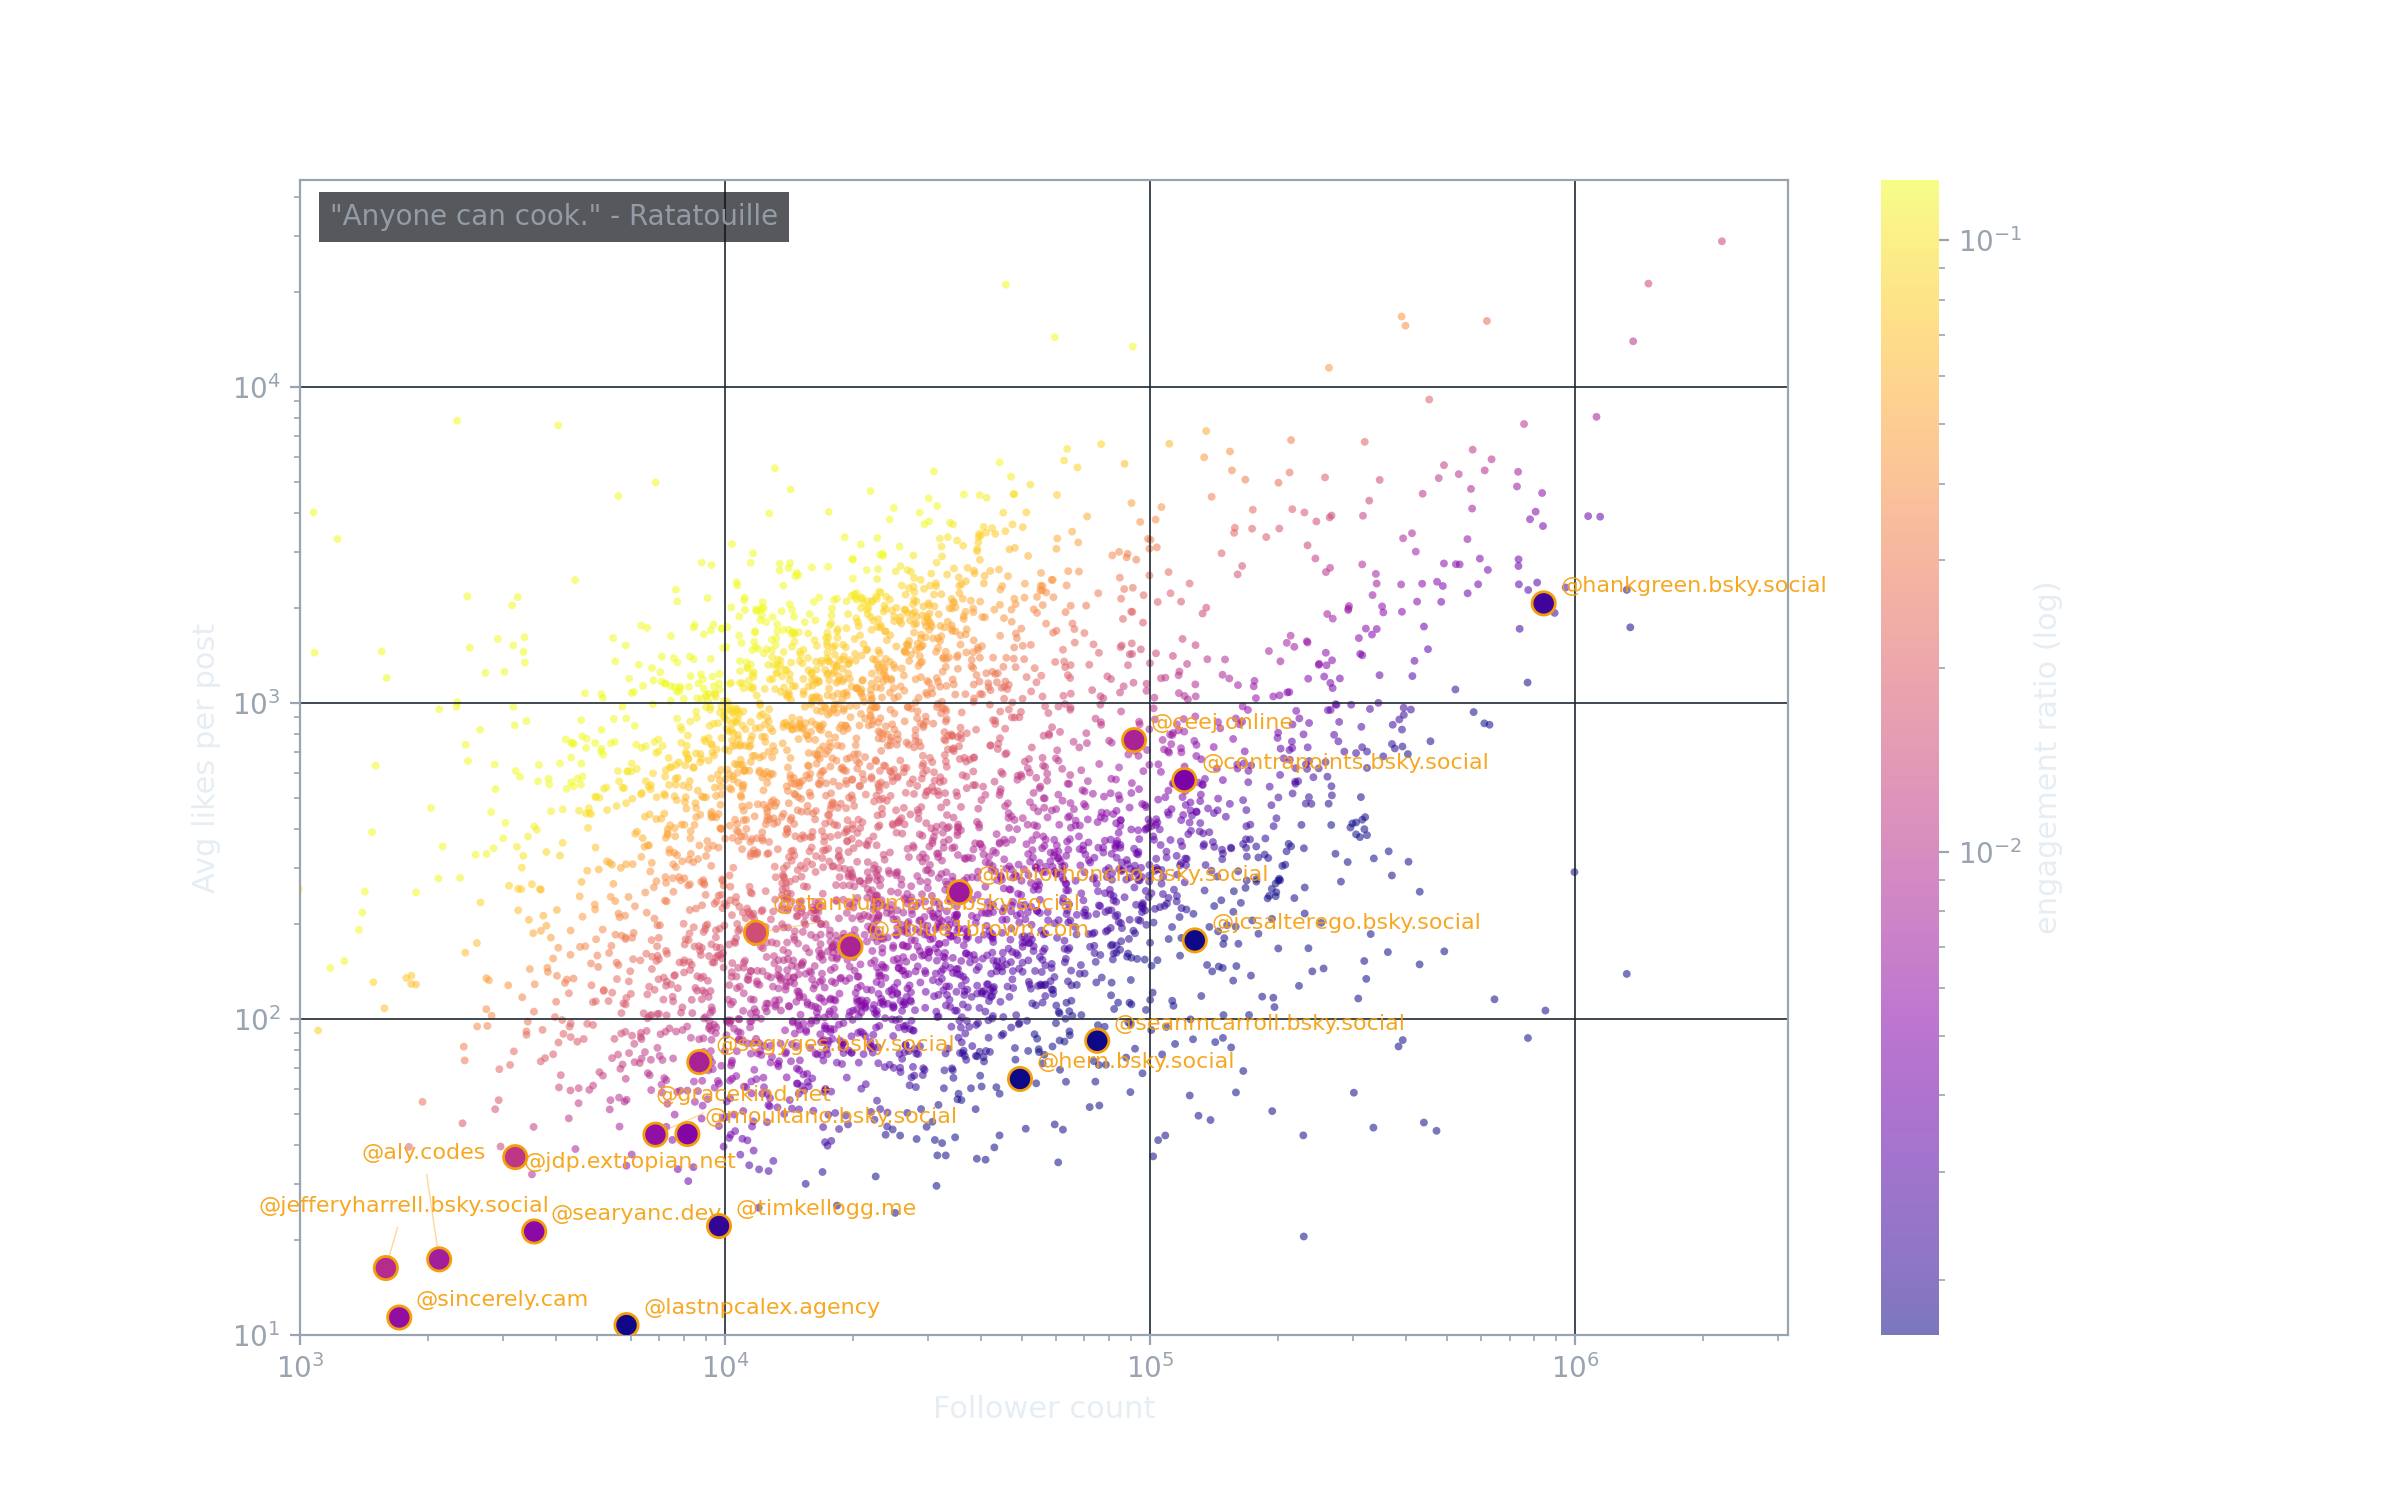
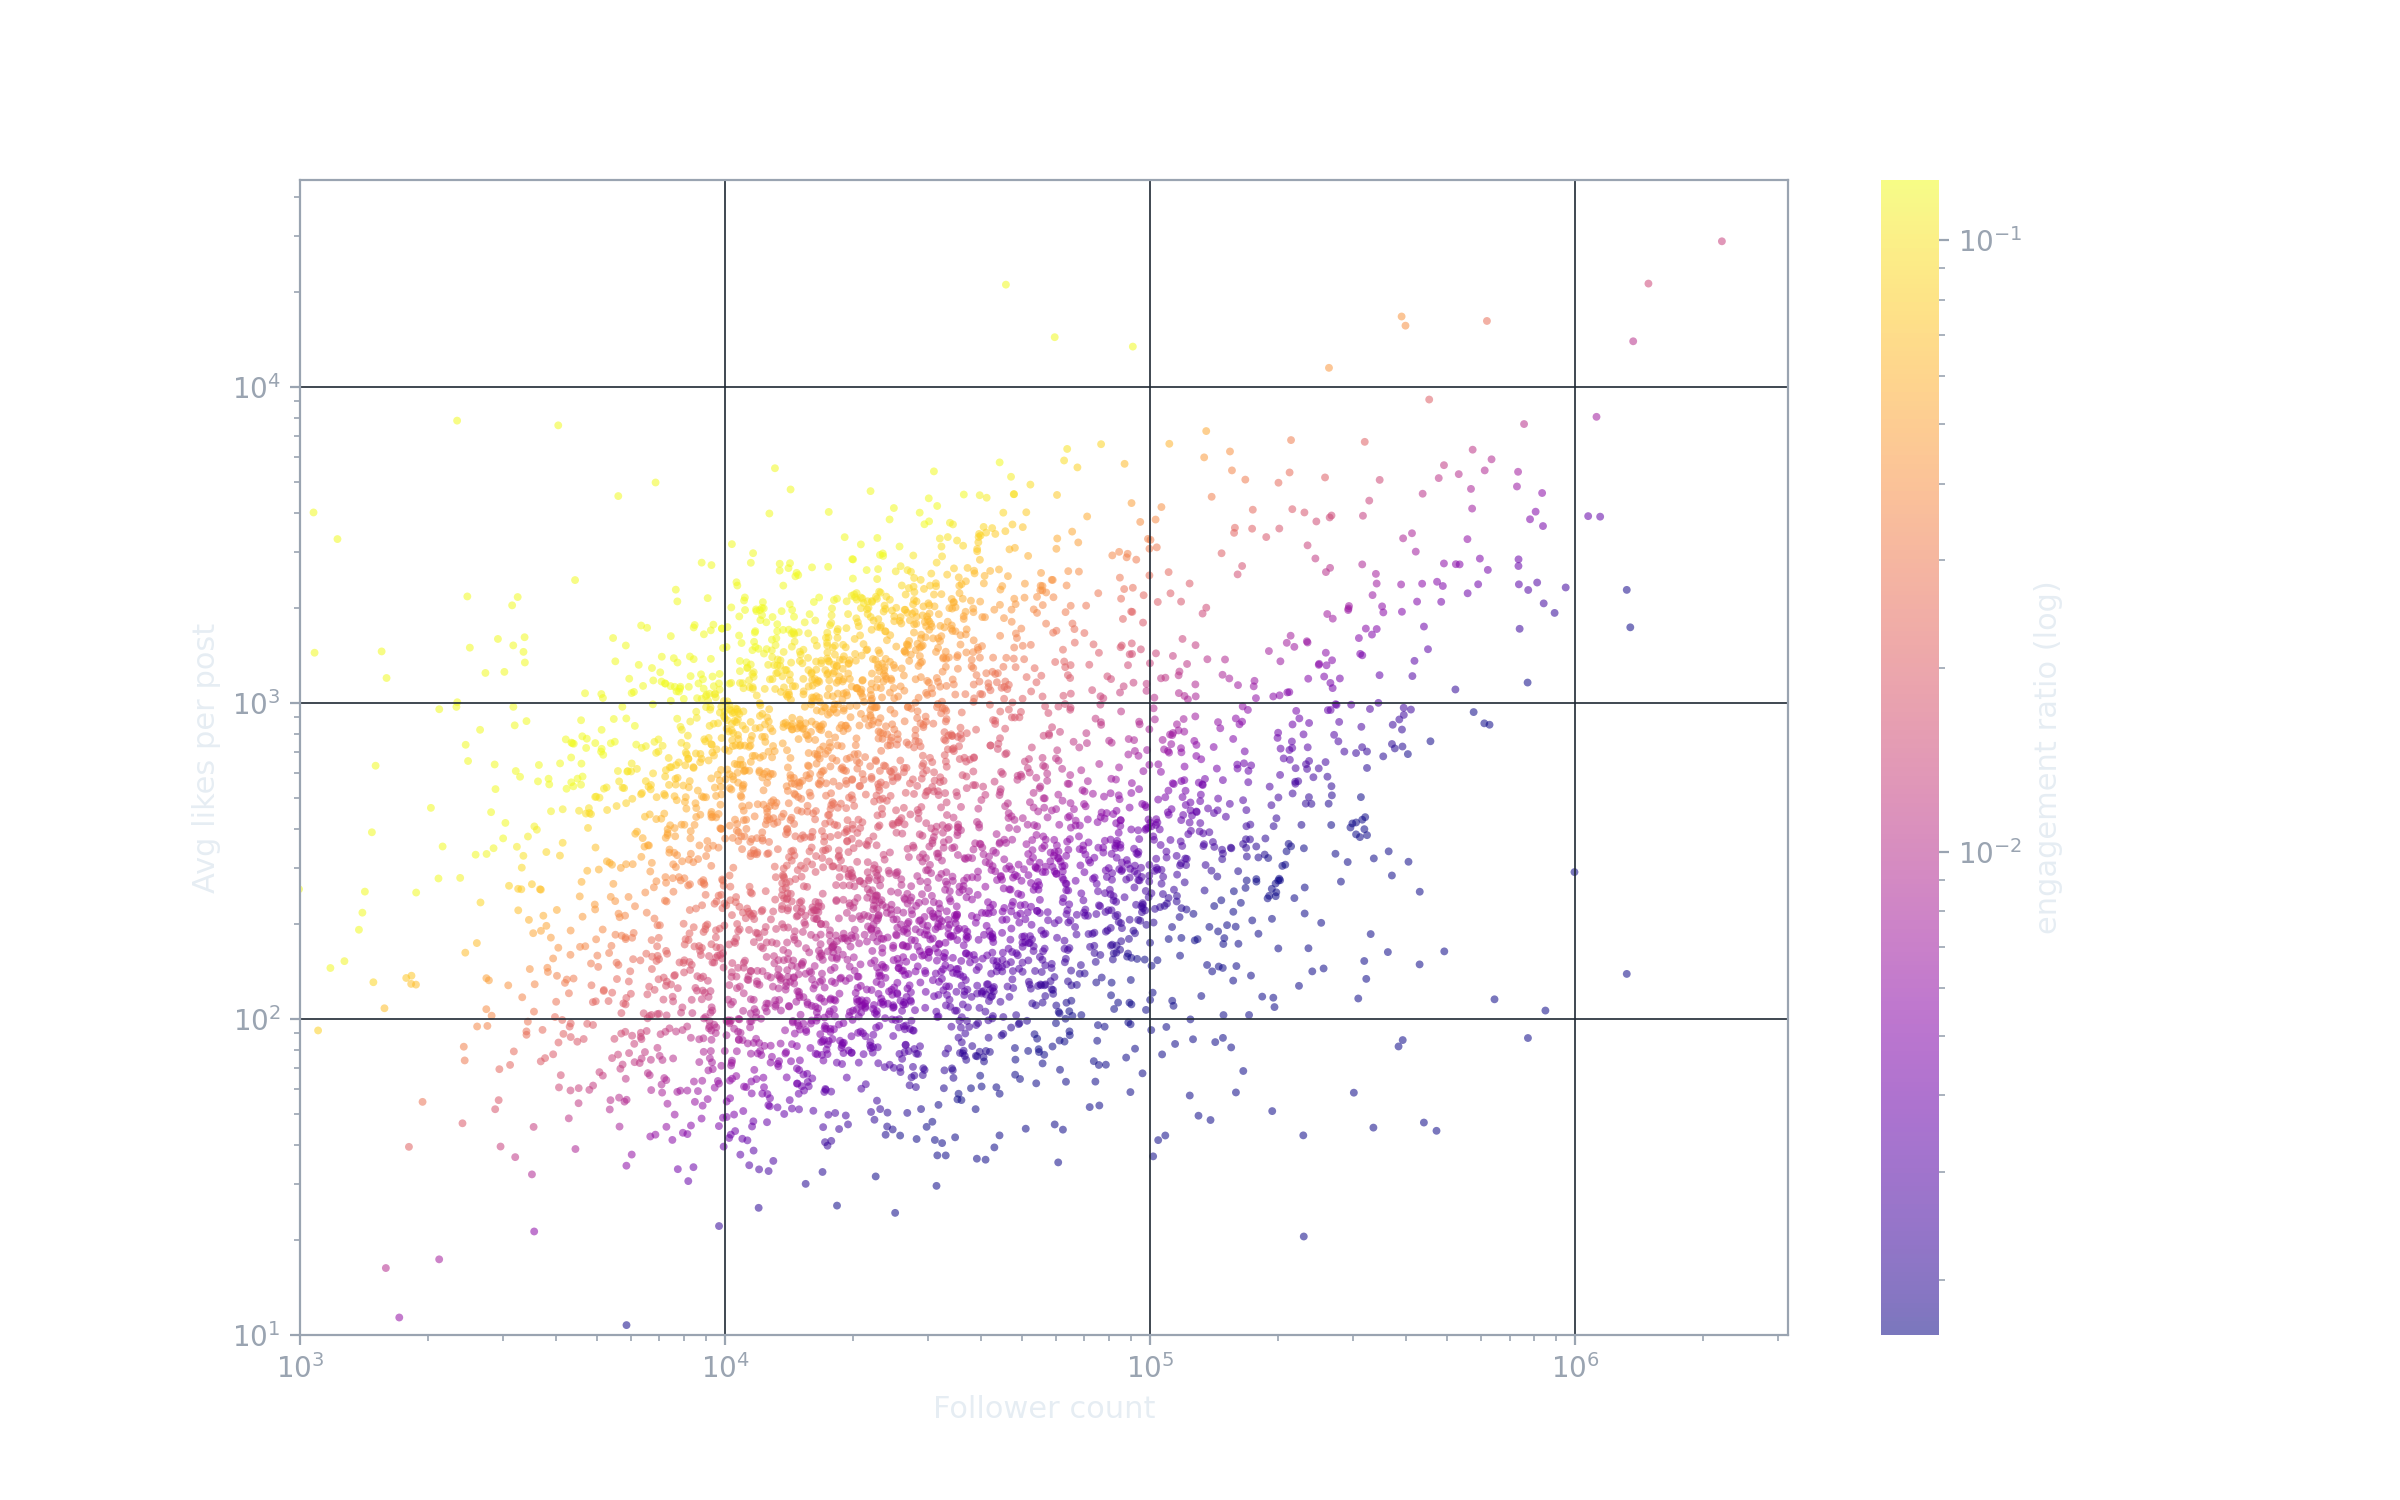
Polish: clean punching plot, follows button, map autocomplete, rename, wording
- punching.png regenerated CLEAN (no baked gold highlights/labels/quote) from the
  existing positions.bin -- recompute engagement_ratio = (y-1)/x and re-render;
  bounds.json re-derived identical (300/180/1788/1335) so the follows overlay
  stays pixel-aligned. New regen_punching_web.py (no parquet pipeline needed).
- FollowsHighlight: one button '🎲 Highlight 15 Followed' that re-rolls on repeat
  press (same handle); removed the separate shuffle button; kept the count note.
- Map search autocomplete: raise .exploremap__search above the color-mode buttons
  (z-index) -- the dropdown was painted behind them.
- Rename 'Wallenstein Posters' -> 'Erudite History Posters' (regions + reference
  + rationale).
- Most & Least note: '1 = likes the most viral'.

diff --git a/site/src/components/FollowsHighlight.tsx b/site/src/components/FollowsHighlight.tsx
@@ -43,6 +43,7 @@ export function FollowsHighlight({ points, onPicks }: Props) {
   const boxRef = useRef<HTMLDivElement>(null);
   const debounceRef = useRef<number | undefined>(undefined);
   const seqRef = useRef(0); // drop out-of-order responses
+  const fetchedRef = useRef<string | null>(null); // handle the current pool is for
 
   useEffect(() => {
     const onDoc = (e: MouseEvent) => {
@@ -86,6 +87,7 @@ export function FollowsHighlight({ points, onPicks }: Props) {
       const present = [...new Set(follows.filter((h) => points.index.has(h)))];
       const me = handle.trim().replace(/^@+/, "").toLowerCase();
       const onPlot = points.index.has(me) ? me : null;
+      fetchedRef.current = me; // subsequent clicks for the same handle re-roll
       setPool(present);
       setUser(onPlot);
       if (!present.length) {
@@ -107,6 +109,15 @@ export function FollowsHighlight({ points, onPicks }: Props) {
     }
   };
 
+  // One button: first press (or a new handle) fetches; pressing again for the
+  // same handle just re-rolls a fresh 15.
+  const onButton = () => {
+    if (busy) return;
+    const cur = handle.trim().replace(/^@+/, "").toLowerCase();
+    if (pool.length > 0 && cur === fetchedRef.current) reshuffle();
+    else run();
+  };
+
   return (
     <div className="followshl" ref={boxRef}>
       <div className="followshl__row">
@@ -123,7 +134,7 @@ export function FollowsHighlight({ points, onPicks }: Props) {
             onKeyDown={(e) => {
               if (e.key === "Enter") {
                 setOpen(false);
-                run();
+                onButton();
               } else if (e.key === "Escape") {
                 setOpen(false);
               }
@@ -156,15 +167,14 @@ export function FollowsHighlight({ points, onPicks }: Props) {
             </ul>
           )}
         </div>
-        <button className="followshl__btn" onClick={run} disabled={busy || !handle.trim()}>
-          Highlight 15
+        <button
+          className="followshl__btn"
+          onClick={onButton}
+          disabled={busy || !handle.trim()}
+        >
+          🎲 Highlight 15 Followed
         </button>
       </div>
-      {pool.length > 0 && (
-        <button className="followshl__shuffle" onClick={() => reshuffle()} disabled={busy}>
-          🎲 shuffle 15 more
-        </button>
-      )}
       {status && <div className="followshl__status">{status}</div>}
     </div>
   );

diff --git a/site/src/components/PlotPage.tsx b/site/src/components/PlotPage.tsx
@@ -131,7 +131,7 @@ export function PlotPage({ plot, selectedHandle, onSelectHandle }: Props) {
         : (() => {
             const ranked = leaderboard.rankOf(sel);
             return ranked
-              ? `@${sel} ranks #${ranked.rank.toLocaleString()} of ${leaderboard.total.toLocaleString()} by mainstreaminess (1 = most viral)`
+              ? `@${sel} ranks #${ranked.rank.toLocaleString()} of ${leaderboard.total.toLocaleString()} by mainstreaminess (1 = likes the most viral)`
               : `@${sel} isn’t a ranked user (needs ≥50 likes)`;
           })()
       : null;

diff --git a/site/src/styles.css b/site/src/styles.css
@@ -105,7 +105,7 @@ body {
   position: absolute;
   top: 12px;
   left: 12px;
-  z-index: 6;
+  z-index: 12; /* above the color-mode buttons so the autocomplete isn't hidden */
   width: 280px;
   max-width: 70%;
 }

diff --git a/regen_punching_web.py b/regen_punching_web.py
@@ -1,0 +1,91 @@
+"""Regenerate site/public/plots/punching.png as a CLEAN scatter (no baked gold
+highlights / labels), using ONLY the already-exported web data -- no parquet
+pipeline needed.
+
+punching.positions.bin stores [followers_count+1, likes_per_post+1] per point,
+so the original color (engagement_ratio = likes_per_post/(followers+1)) is
+recoverable as (y-1)/x. We re-render with the same axes/limits/theme and let the
+bounds.json be re-derived from the rendered axes, so the existing positions.bin
+overlay (the "highlight 15 you follow" rings) stays pixel-aligned.
+"""
+import json
+import struct
+from pathlib import Path
+
+import numpy as np
+import matplotlib
+matplotlib.use("Agg")
+import matplotlib as mpl
+import matplotlib.pyplot as plt
+from matplotlib.colors import LogNorm
+
+SITE_PLOTS = Path(__file__).parent / "site" / "public" / "plots"
+
+# --- dark theme (mirrors plots.py) ---
+plt.rcParams.update({
+    "figure.facecolor": "#0e1116",
+    "axes.facecolor": "#0e1116",
+    "axes.edgecolor": "#9aa4b1",
+    "axes.labelcolor": "#e6edf3",
+    "xtick.color": "#9aa4b1",
+    "ytick.color": "#9aa4b1",
+    "text.color": "#e6edf3",
+    "axes.titlecolor": "#e6edf3",
+    "axes.titlesize": 14,
+    "axes.titleweight": "bold",
+    "axes.labelsize": 11,
+    "font.family": "DejaVu Sans",
+    "axes.grid": True,
+    "grid.color": "#1f2933",
+    "grid.linewidth": 0.6,
+})
+
+# --- load the exported positions: x = followers+1, y = likes_per_post+1 ---
+xy = np.fromfile(SITE_PLOTS / "punching.positions.bin", dtype=np.float32).reshape(-1, 2)
+x = xy[:, 0].astype(np.float64)
+y = xy[:, 1].astype(np.float64)
+eng = (y - 1.0) / x  # engagement_ratio = likes_per_post / (followers + 1)
+print(f"{len(xy):,} points; engagement_ratio range {eng.min():.4g}..{eng.max():.4g}")
+
+# --- render (no manual highlights) ---
+fig, ax = plt.subplots(figsize=(12, 7.5))
+sc = ax.scatter(
+    x, y, s=8, c=eng, cmap="plasma", alpha=0.55, edgecolors="none",
+    norm=LogNorm(vmin=np.quantile(eng, 0.05) + 1e-6, vmax=np.quantile(eng, 0.95)),
+)
+ax.set_xscale("log")
+ax.set_yscale("log")
+ax.set_xlim(1e3, 10 ** 6.5)
+ax.set_ylim(10, None)
+cb = fig.colorbar(sc, ax=ax, label="engagement ratio (log)")
+cb.outline.set_visible(False)
+ax.set_xlabel("Follower count")
+ax.set_ylabel("Avg likes per post")
+ax.set_title("Top 4,000 liked accounts", fontsize=18)
+
+# --- export PNG + bounds (mirrors export_web.export_png_and_bounds) ---
+DPI = 200
+ax.set_title("")  # title is rendered as HTML on the site
+fig.canvas.draw()
+x_min, x_max = ax.get_xlim()
+y_min, y_max = ax.get_ylim()
+fig_w_px = fig.get_figwidth() * DPI
+fig_h_px = fig.get_figheight() * DPI
+pos = ax.get_position()
+bounds = {
+    "xMin": float(x_min), "xMax": float(x_max),
+    "yMin": float(y_min), "yMax": float(y_max),
+    "xLog": True, "yLog": True,
+    "imgWidth": int(round(fig_w_px)), "imgHeight": int(round(fig_h_px)),
+    "plotArea": {
+        "left": float(pos.x0 * fig_w_px),
+        "top": float((1.0 - pos.y1) * fig_h_px),
+        "right": float(pos.x1 * fig_w_px),
+        "bottom": float((1.0 - pos.y0) * fig_h_px),
+    },
+}
+with mpl.rc_context({"savefig.bbox": None, "savefig.pad_inches": 0}):
+    fig.savefig(SITE_PLOTS / "punching.png", dpi=DPI, transparent=True)
+(SITE_PLOTS / "punching.bounds.json").write_text(json.dumps(bounds, indent=2))
+print("[OK] wrote punching.png + punching.bounds.json")
+print("plotArea:", bounds["plotArea"], "img", bounds["imgWidth"], "x", bounds["imgHeight"])
